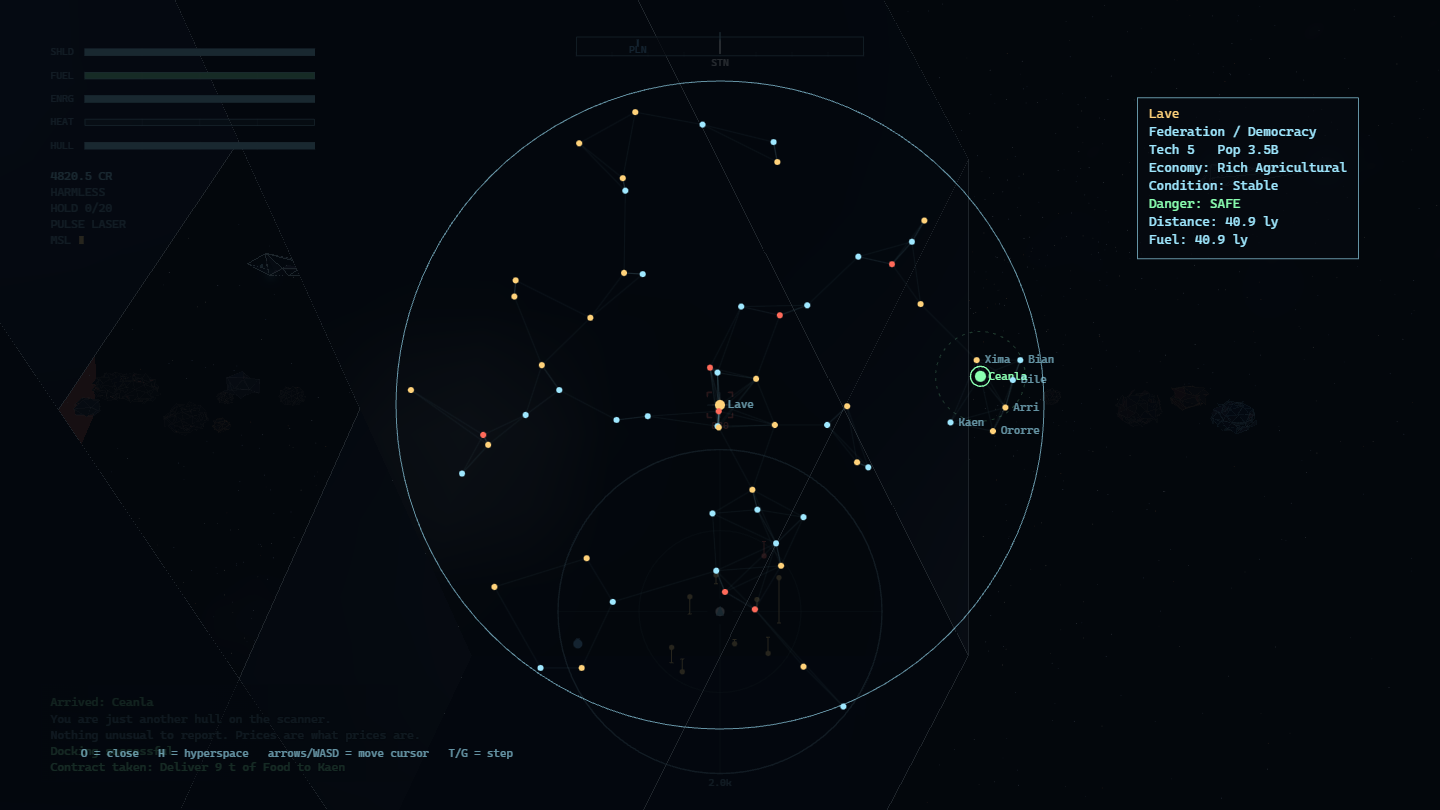
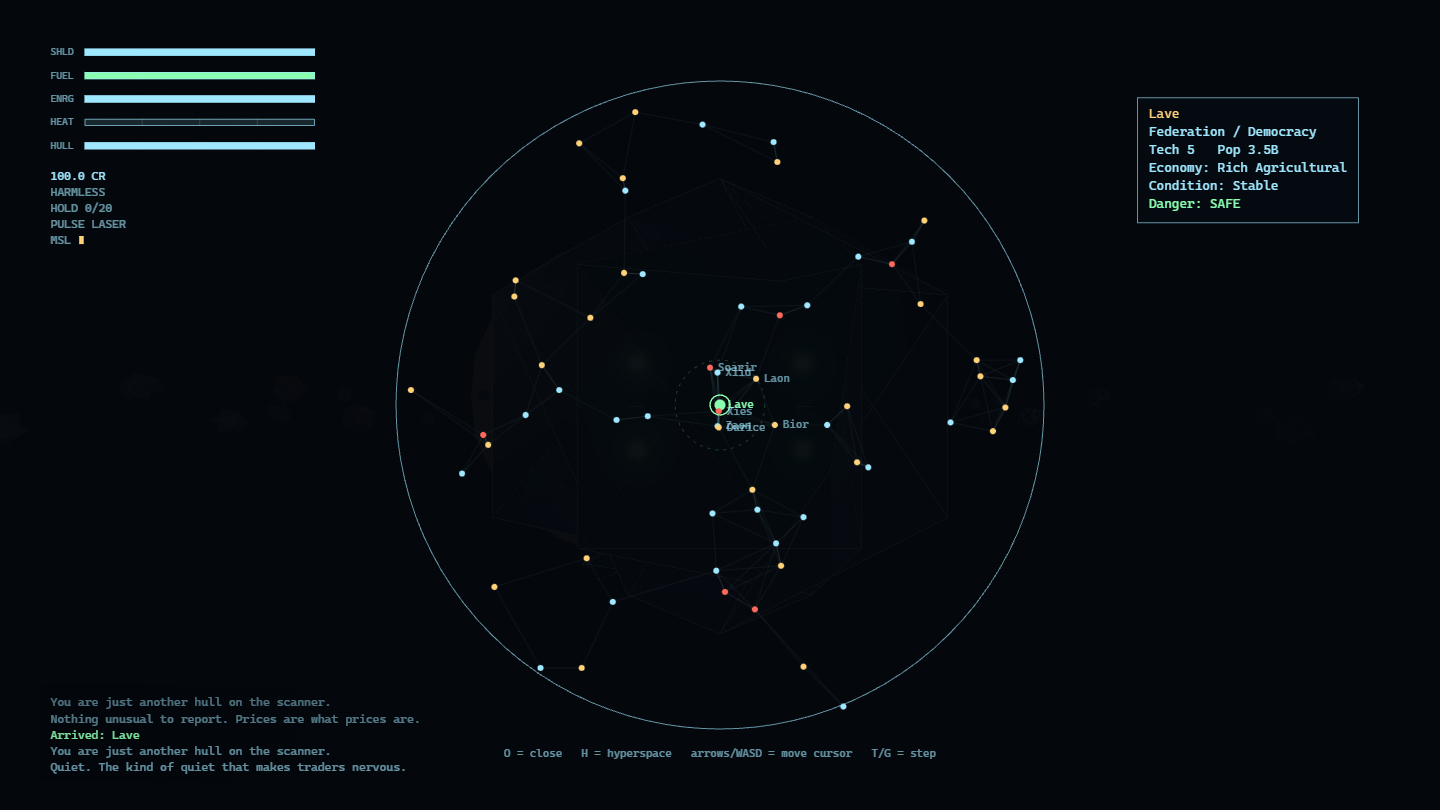
fix: карта гасила HUD вместе с миром
drawChartOverlay вызывался последним, поверх всего, поэтому его затемнение
ложилось не только на мир, но и на колонку статуса, компас и журнал сообщений.
Замер: мир за картой менял 27 % площади данных, 3.7 % заметно — сквозь граф
маршрутов просвечивали рёбра станции, самые яркие линии в кадре.

Первая попытка была неверной: поднял непрозрачность 0.86 -> 0.96. Просвечивание
упало до 6 %, а колонка статуса стала почти невидимой — потому что фон гасил её
и раньше, просто слабее. Оба симптома имели одну причину: фон закрывал не тот
слой. Признак — правка одной константы улучшила одно и ухудшила другое.

Правильная правка структурная: drawHud считает chartUp один раз, не рисует
приборы полёта (прицел, сканер, рамка цели, компас, дуги урона — на карте они
бессмысленны) и рисует карту до колонки статуса и журнала, а не после.

Легенда карты перенесена в центр низа: журнал рисуется после карты и перекрыл бы
её в левом углу. Сканер, занимавший низ по центру, на карте больше не рисуется.

Тесты: +2 — фон карты рисуется до подписи SHLD, а не поверх неё; легенда
центрирована.

diff --git a/src/ui/hud.js b/src/ui/hud.js
@@ -107,6 +107,17 @@ export function drawHud(ctx, state) {
   // One place computes it, everything downstream reads it.
   state.scale = state.scale || hudScale(h);
 
+  // The chart is a *place*, not an overlay on the cockpit: it replaces the view
+  // of space. So the instruments go away, the map is drawn in their place, and
+  // the status readout sits on top of it.
+  //
+  // This used to be the other way round - the chart was drawn last, over
+  // everything - which meant its backdrop dimmed the HUD along with the world.
+  // At 0.86 that left the status column faint; raising the opacity to kill the
+  // world ghosting made it nearly invisible. Both symptoms had one cause: the
+  // backdrop was covering the wrong layer.
+  const chartUp = state.radarMode === 'chart' || state.showChart;
+
   ctx.save();
   ctx.lineWidth = HUD_LAYOUT.lineWidth;
   ctx.lineCap = 'round';
@@ -114,20 +125,23 @@ export function drawHud(ctx, state) {
 
   // Order matters: the crosshair is drawn under the scanner so the two never
   // fight for the same pixels at the edge of the view.
-  drawTargetBox(ctx, state);
-  drawCrosshair(ctx, state);
-  drawScanner(ctx, state);
+  if (!chartUp) {
+    drawTargetBox(ctx, state);
+    drawCrosshair(ctx, state);
+    drawScanner(ctx, state);
+  }
   ctx.restore();
 
+  if (chartUp) drawChartOverlay(ctx, state);
+
   // Text blocks are drawn without the line-drawing state, so a stray lineWidth
-  // cannot fatten a glyph.
+  // cannot fatten a glyph. Drawn after the chart, so they stay readable on it.
   drawStatusBars(ctx, state);
   drawIdent(ctx, state);
-  drawCompass(ctx, state);
+  if (!chartUp) drawCompass(ctx, state);
   drawMessages(ctx, state);
   drawAlerts(ctx, state);
-  drawDamageArcs(ctx, state);
-  if (state.radarMode === 'chart' || state.showChart) drawChartOverlay(ctx, state);
+  if (!chartUp) drawDamageArcs(ctx, state);
 }
 
 /** The centre reticle. Small, thin, and offset so it never hides the target. */
@@ -661,7 +675,19 @@ export function drawChartOverlay(ctx, state) {
   if (!chart) return;
 
   // Dim the world behind the chart so the lines read.
-  ctx.fillStyle = 'rgba(4,8,14,0.86)';
+  //
+  // Measured with the scene hidden and shown: at 0.86 the world behind still
+  // changed **27 % of the chart's data area**, 3.7 % of it strongly - the worst
+  // offender being the station, whose edge lines are the brightest thing in the
+  // frame and cut straight across the route graph. 0.96 brings that to 6 % and
+  // 0.9 %, which is the point of a backdrop.
+  //
+  // The opacity alone was not the whole fix, though. The chart used to be drawn
+  // *last*, over everything, so this backdrop dimmed the HUD along with the
+  // world - and raising the opacity to kill the ghosting made the status column
+  // nearly invisible. `drawHud` now draws the chart before the status readout,
+  // so this covers the world and the instruments, and nothing else.
+  ctx.fillStyle = 'rgba(4,8,14,0.96)';
   ctx.fillRect(0, 0, w, h);
 
   const pad = Math.min(w, h) * 0.10;
@@ -752,13 +778,16 @@ export function drawChartOverlay(ctx, state) {
   ctx.restore();
 
   // --- Legend -----------------------------------------------------------
-  const lx = pad;
+  // Centred along the bottom, not tucked into the left corner: the message log
+  // lives there, and it is drawn *after* the chart now, so a left-aligned
+  // legend would be covered by it. The scanner that used to occupy the bottom
+  // centre is not drawn while the chart is up, so the space is free.
   const ly = h - pad * 0.7;
   ctx.font = HUD_LAYOUT.smallFont + 'px ' + MONO;
-  ctx.textAlign = 'left';
+  ctx.textAlign = 'center';
   ctx.textBaseline = 'middle';
   ctx.fillStyle = HUD_COLOURS.inkDim;
-  ctx.fillText(CHART_LEGEND, lx, ly);
+  ctx.fillText(CHART_LEGEND, w / 2, ly);
 
   // Selected-system detail card.
   if (chart.selectedInfo) {

diff --git a/tests/hud.test.js b/tests/hud.test.js
@@ -791,3 +791,70 @@ test('the flight HUD is not drawn behind the station screen', () => {
   assert.equal(H.hudOverlayFor('chart'), 'flight');
   assert.equal(H.hudOverlayFor('flight'), 'flight');
 });
+
+// --- The chart is a place, not an overlay ----------------------------------
+
+test('the chart replaces the instruments instead of dimming them', () => {
+  // The chart is a *place*: it replaces the view of space. It used to be drawn
+  // last, over everything, so its backdrop dimmed the HUD along with the world.
+  // At 0.86 that left the status column faint; raising the opacity to kill the
+  // world ghosting made it nearly invisible. Both symptoms had one cause - the
+  // backdrop was covering the wrong layer.
+  const flight = recordingContext();
+  const flightState = fullState();
+  flightState.showChart = false;
+  H.drawHud(flight, flightState);
+
+  const chart = recordingContext();
+  const chartState = {
+    ...fullState(),
+    showChart: true,
+    chart: {
+      discRadius: 260, jumpRange: 36, routes: [],
+      systems: [{ index: 0, name: 'HERE', x: 0, y: 0, danger: 0.1 }],
+      player: { index: 0 }, selected: -1,
+    },
+  };
+  H.drawHud(chart, chartState);
+
+  // The instruments are gone...
+  assert.ok(chart.calls.length < flight.calls.length,
+    'the chart drew as much as the cockpit view');
+
+  // ...the status readout survives...
+  assert.ok(chart.texts().includes('SHLD'),
+    'the status column vanished on the chart screen');
+
+  // ...and the backdrop is drawn *before* that readout rather than over it.
+  const w = chartState.width;
+  const h = chartState.height;
+  const backdrop = chart.calls.findIndex((c) => c.name === 'fillRect'
+    && c.args[0] === 0 && c.args[1] === 0 && c.args[2] === w && c.args[3] === h);
+  const status = chart.calls.findIndex((c) => c.name === 'fillText' && c.args[0] === 'SHLD');
+  assert.ok(backdrop >= 0, 'the chart drew no full-screen backdrop');
+  assert.ok(status > backdrop,
+    'the status readout is drawn under the chart backdrop, so the backdrop dims it');
+});
+
+test('the chart legend sits clear of the message log', () => {
+  // Both live at the bottom of the screen. The legend used to be left-aligned
+  // in the corner the message log occupies; now that the log is drawn *after*
+  // the chart, a left-aligned legend would be covered by it.
+  const ctx = recordingContext();
+  const state = {
+    ...fullState(),
+    showChart: true,
+    messages: [{ text: 'Arrived: Lave', age: 0, lifetime: 5 }],
+    chart: {
+      discRadius: 260, jumpRange: 36, routes: [],
+      systems: [{ index: 0, name: 'HERE', x: 0, y: 0, danger: 0.1 }],
+      player: { index: 0 }, selected: -1,
+    },
+  };
+  H.drawHud(ctx, state);
+  const legend = ctx.calls.find((c) => c.name === 'fillText'
+    && c.args[0] === H.CHART_LEGEND);
+  assert.ok(legend, 'the chart legend was not drawn');
+  assert.equal(legend.args[1], state.width / 2,
+    'the legend is not centred, so it collides with the message log');
+});

diff --git a/docs/CONTEXT.md b/docs/CONTEXT.md
@@ -24,7 +24,7 @@
 | Карта галактики | Готово | 64 системы, 129 маршрутов, световые годы |
 | Звук | Готово | Процедурный WebAudio |
 | Сборка | Готово | 708 kB / 191 kB gzip, один файл |
-| Тесты | Готово | 620 юнитов + 56 e2e, всё зелёное |
+| Тесты | Готово | 622 юнита + 56 e2e, всё зелёное |
 | Ресурсы (`dispose.js`) | Готово | Единая утилизация; правило `userData.shared` в одном месте |
 | Инструменты | Готово | `scripts/economy-sim.mjs` — три карьеры: торговля, +контракты, +контракты с грузом вперёд |
 | Документация | Готово | README, AGENTS, CONTEXT, DECISIONS, CODE-REVIEW |
@@ -53,6 +53,11 @@
 
 | Дата | Изменение |
 |------|-----------|
+| 2026-09-17 | **Найдено на снимке карты: её фон гасил не только мир, но и HUD.** `drawChartOverlay` вызывался **последним**, поэтому его затемнение ложилось поверх колонки статуса, компаса и журнала сообщений. Замер: мир за картой менял **27 % площади данных** (3.7 % заметно) — сквозь граф маршрутов просвечивали рёбра станции, самые яркие линии в кадре. |
+| 2026-09-17 | Первая попытка была неверной: поднял непрозрачность 0.86 → 0.96, и это убрало просвечивание (27 % → 6 %), **но сделало колонку статуса почти невидимой** — потому что фон гасил её и раньше, просто слабее. Оба симптома имели одну причину: фон закрывал не тот слой. |
+| 2026-09-17 | **Правильная правка — развести слои, а не крутить число.** `drawHud` теперь считает `chartUp` один раз и: не рисует приборы полёта (прицел, сканер, рамку цели, компас, дуги урона) — на карте они бессмысленны; рисует карту **до** колонки статуса и журнала; оставляет статус, опознание, журнал и предупреждения поверх карты. |
+| 2026-09-17 | Легенда карты перенесена из левого нижнего угла в центр низа: журнал сообщений рисуется **после** карты и перекрыл бы её. Сканер, занимавший низ по центру, на карте теперь не рисуется — место свободно. |
+| 2026-09-17 | Тесты: `hud.test.js` (+2) — карта рисует меньше, чем кабина; колонка статуса на карте на месте; фон карты рисуется **до** статуса, а не поверх (проверяется индексом вызова `fillRect(0,0,w,h)` против индекса первой подписи `SHLD`); легенда центрирована и не сталкивается с журналом. Итого 622 юнита. |
 | 2026-09-16 | **Закрыта открытая проблема #12: взятый контракт больше не показывается дважды.** Было: задание оставалось на доске тусклой строкой «accepted» и тут же повторялось живой строкой «in progress / abandon». Теперь взятые предложения отфильтрованы — задание видно **один раз**, в разделе своих. Замер в браузере: принял контракт на Durice, на доске 3 строки, Durice упоминается **один** раз. |
 | 2026-09-16 | Курсор остался один над одним списком (доступные предложения, затем взятые) — это и было обоснованием исходного решения, и оно сохранено. Изменилось только число строк: одна на задание. Последняя колонка теперь читается единообразно — она говорит, что сделает Enter: «accept» у доступных, «abandon» у взятых. |
 | 2026-09-16 | Проверка `offer.taken` убрана из `activateContract` как недостижимая: взятого предложения в списке больше нет. Настоящая защита от двойного взятия — в `MISSIONS.accept`, которая отказывает по id, что бы ни думал экран. |

diff --git a/docs/DECISIONS.md b/docs/DECISIONS.md
@@ -1552,3 +1552,39 @@ Deliver 9 t of Food to Kaen   Kaen   11   206 CR   abandon      ← то же з
 — к курсору, а не к строкам). И второе: **сравнивай вычисленный стиль, а не
 впечатление от снимка.** Три ложные тревоги за один раунд закрыты замером, и ни
 одна не была дефектом.
+
+## ADR: карта — это место, а не наложение; фон гасит мир, но не HUD
+
+**Решение.** `drawHud` считает `chartUp` один раз и меняет порядок отрисовки:
+приборы полёта не рисуются, карта рисуется **до** колонки статуса и журнала,
+текстовые блоки — поверх карты. Легенда карты перенесена в центр низа.
+
+**Что было.** `drawChartOverlay` вызывался последним, поверх всего. Значит его
+затемнение (`rgba(4,8,14,0.86)`) ложилось не только на мир, но и на HUD: колонку
+щита и топлива, компас, журнал сообщений. Замер: мир за картой менял **27 %
+площади данных**, 3.7 % заметно — сквозь граф маршрутов просвечивали рёбра
+станции, самые яркие линии в кадре.
+
+**Первая попытка была неверной, и это стоит записать.** Я поднял непрозрачность
+0.86 → 0.96. Просвечивание упало (27 % → 6 %), **а колонка статуса стала почти
+невидимой** — потому что фон гасил её и раньше, просто слабее. То есть правка
+улучшила один симптом и усилила другой, у которого была **та же причина**: фон
+закрывал не тот слой.
+
+**Как это заметить.** Признак: правка одной константы улучшает одно и ухудшает
+другое. Это почти всегда значит, что чинится не причина, а её проявление. Здесь
+причина была структурная — порядок вызовов, — а не в значении альфы.
+
+**Что теперь на карте.** Приборов полёта нет: прицел, рамка цели, сканер,
+компас и дуги урона на карте бессмысленны — они показывают, куда смотреть, а
+смотреть надо на карту. Остались колонка статуса (топливо нужно для планирования
+прыжка), опознание, журнал сообщений и предупреждения — всё поверх карты.
+
+**Легенда переехала в центр низа.** Она стояла в левом нижнем углу, где живёт
+журнал сообщений; раньше карта рисовалась последней и перекрывала журнал, теперь
+журнал рисуется последним и перекрыл бы легенду. Низ по центру освободился:
+сканер там больше не рисуется.
+
+**Урок.** Прежде чем крутить число, спроси, **какой слой** оно настраивает. И
+если правка константы улучшает одно и портит другое — ищи структурную причину,
+а не компромиссное значение.

diff --git a/AGENTS.md b/AGENTS.md
@@ -7,7 +7,7 @@
 | Установка | `npm install` |
 | Dev-сервер | `npm run dev` |
 | Сборка одного файла | `npm run build` → `dist/index.html` |
-| Юнит-тесты | `npm test` (620) |
+| Юнит-тесты | `npm test` (622) |
 | E2E | `npm run e2e` (51 проверка, headless Chrome) |
 | Симуляция экономики | `node scripts/economy-sim.mjs [прыжков]` |
 | Всё сразу | `npm run check` (тесты + сборка + e2e) |
@@ -322,6 +322,14 @@ e2e-shots/           # скриншоты, перезаписываются пр
   `activateContract` содержал `if (offer.taken) return notify('Already accepted')`
   — после фильтрации ветка стала недостижимой. Настоящая защита от двойного
   взятия живёт в `MISSIONS.accept` и от экрана не зависит.
+- **Прежде чем крутить число, спроси, какой слой оно настраивает.** Фон карты
+  гасил не только мир, но и HUD — потому что карта рисовалась последней. Подняв
+  непрозрачность 0.86 → 0.96, я убрал просвечивание станции (27 % → 6 %) и
+  сделал колонку статуса почти невидимой. Оба симптома имели **одну причину**:
+  фон закрывал не тот слой. Правильная правка — порядок вызовов, а не значение.
+- **Если правка одной константы улучшает одно и портит другое — ищи структурную
+  причину.** Компромиссное значение между двумя симптомами закрепляет причину
+  вместо того, чтобы её убрать.
 - **`createMemory` внутри `enterSystem` означала «память всегда пуста».**
   Механика, которая должна накапливаться между визитами, не может жить на
   объекте, который пересобирается на каждом визите. Спрашивай не «где удобно

diff --git a/README.md b/README.md
@@ -71,6 +71,12 @@ bloom с ACES tone mapping.
   <img src="docs/screenshots/chart.png" alt="Карта галактики" width="720">
 </p>
 
+## Играть
+
+**https://alexanderkuzikov.github.io/Elite-Deep/** — играть прямо в браузере, без
+установки. Это тот же самый один самодостаточный HTML-файл, что собирается
+локально.
+
 ## Быстрый старт
 
 Нужен **Node 22+** и Google Chrome (только для e2e-прогона).
@@ -80,7 +86,7 @@ npm install
 npm run dev          # dev-сервер с горячей перезагрузкой
 
 npm run build        # dist/index.html — один самодостаточный файл
-npm test             # 620 юнитов
+npm test             # 622 юнита
 npm run e2e          # 56 проверок в headless Chrome
 npm run sim 200      # симулятор экономики: три карьеры на 200 прыжках
 npm run check        # тесты + сборка + e2e
@@ -123,7 +129,7 @@ npm run check        # тесты + сборка + e2e
 **v0.1.0** — играбельно: полёт, бой, торговля, стыковка, прыжки, карта,
 рейтинг. Графика осовременена: процедурное небо с галактическим поясом,
 PBR-материалы с environment-пробой, объёмные корпуса с затухающей обводкой.
-620 юнитов и 56 e2e-проверок зелёные.
+622 юнита и 56 e2e-проверок зелёные.
 
 Открытые вопросы — дизайнерские, а не технические, и перечислены в
 `docs/CONTEXT.md`: должны ли зачистки доминировать по награде, показывать ли
